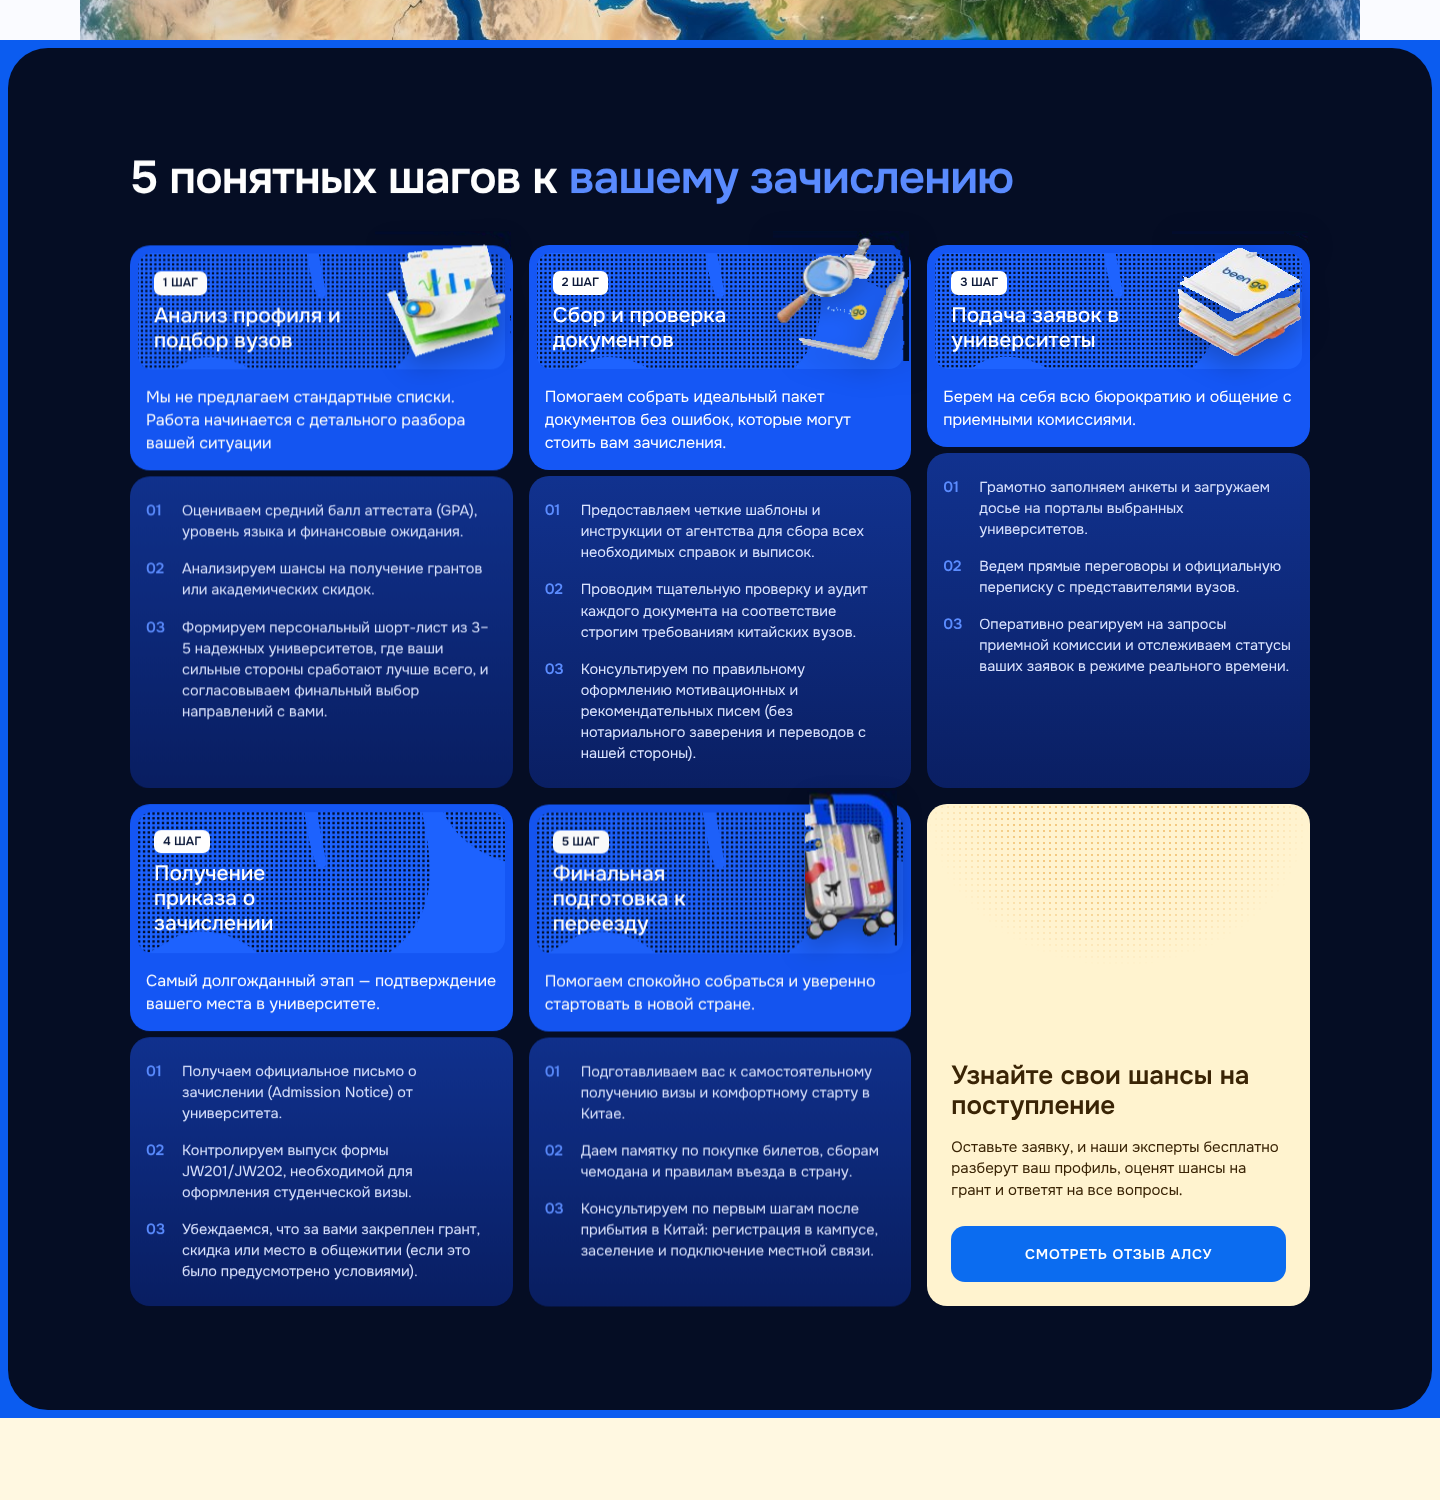
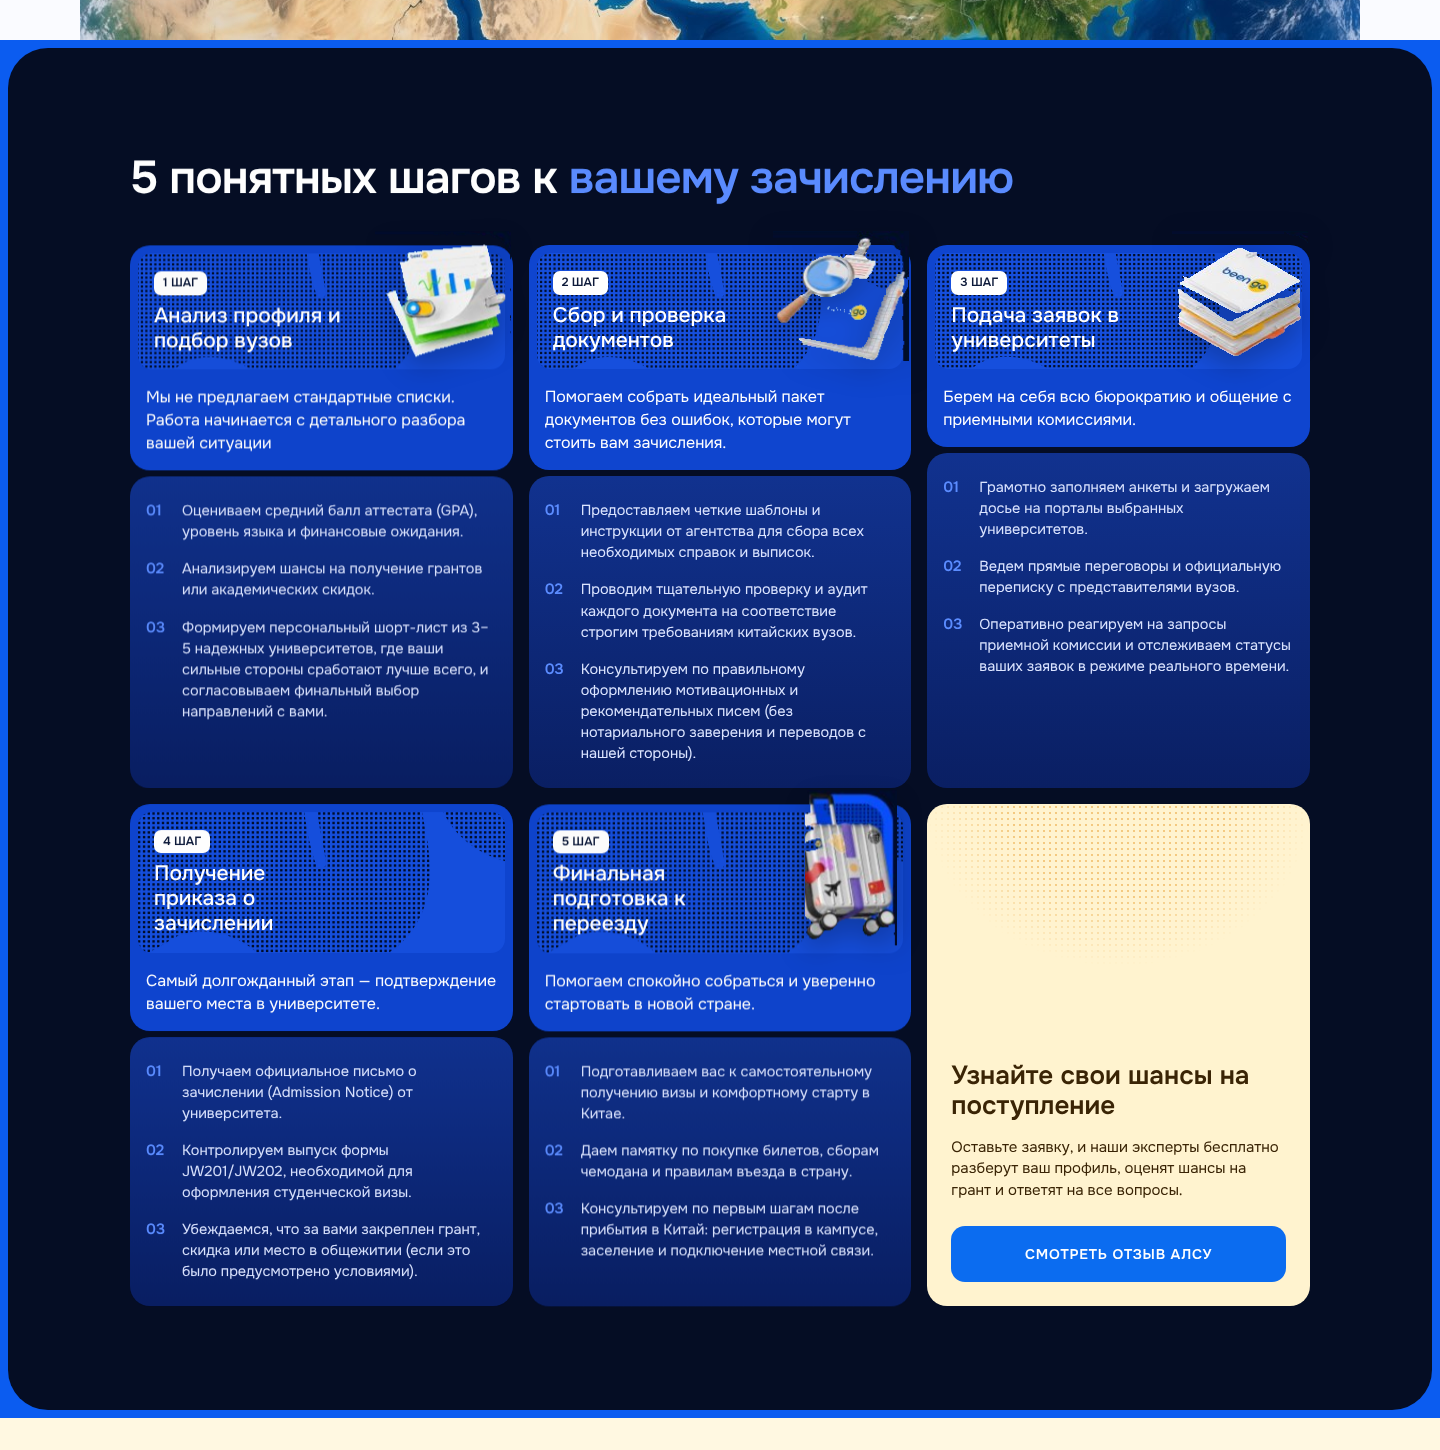
Process: darker step card backgrounds per Figma
Claude-Session: https://claude.ai/code/session_01DveQThDXrjAqWsCdBVYsEN

diff --git a/index.html b/index.html
@@ -764,6 +764,10 @@ body{background:#e9eff8}
 #process.sec{padding:8px 0}
 .frame.process{width:calc(100% - 16px)}
 @media (max-width:680px){#process.sec{padding:6px 0}.frame.process{width:calc(100% - 12px)}}
+
+/* шаги: фон темнее, как в макете */
+.step-top{background:#0f45cf}
+.step-head.pat{background-color:#164fdd}
 </style>
 </head>
 <body>
